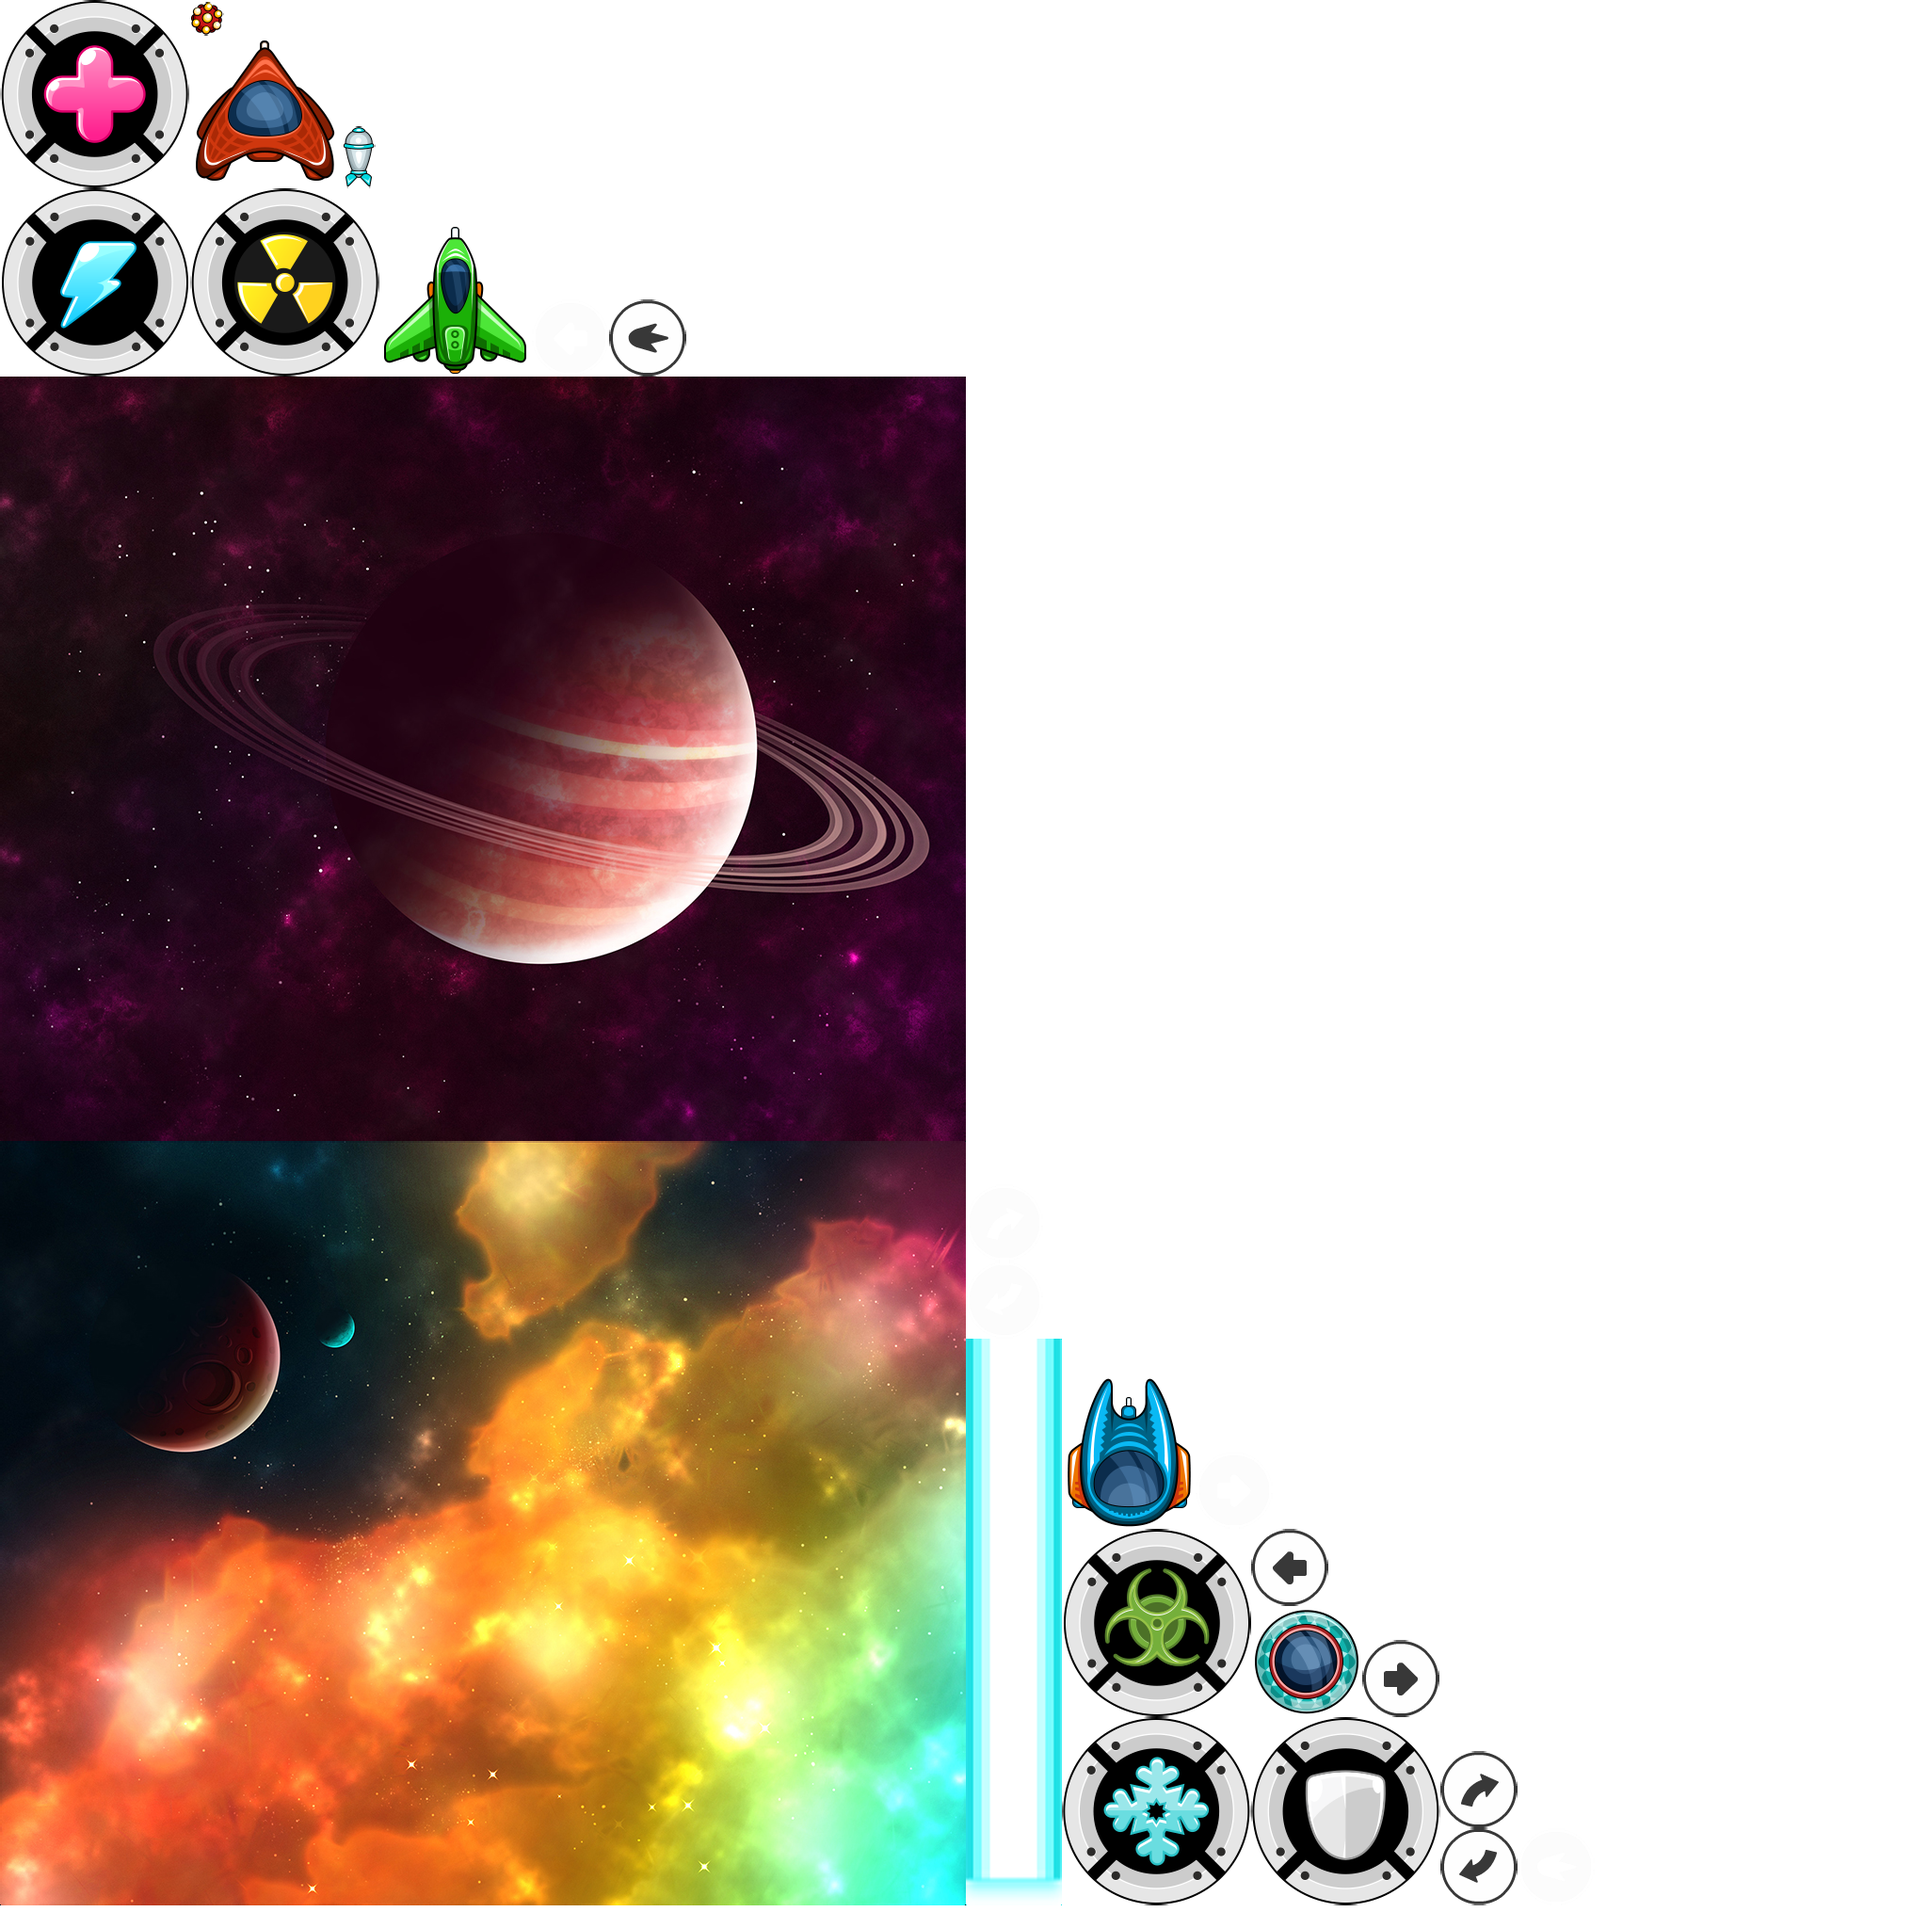
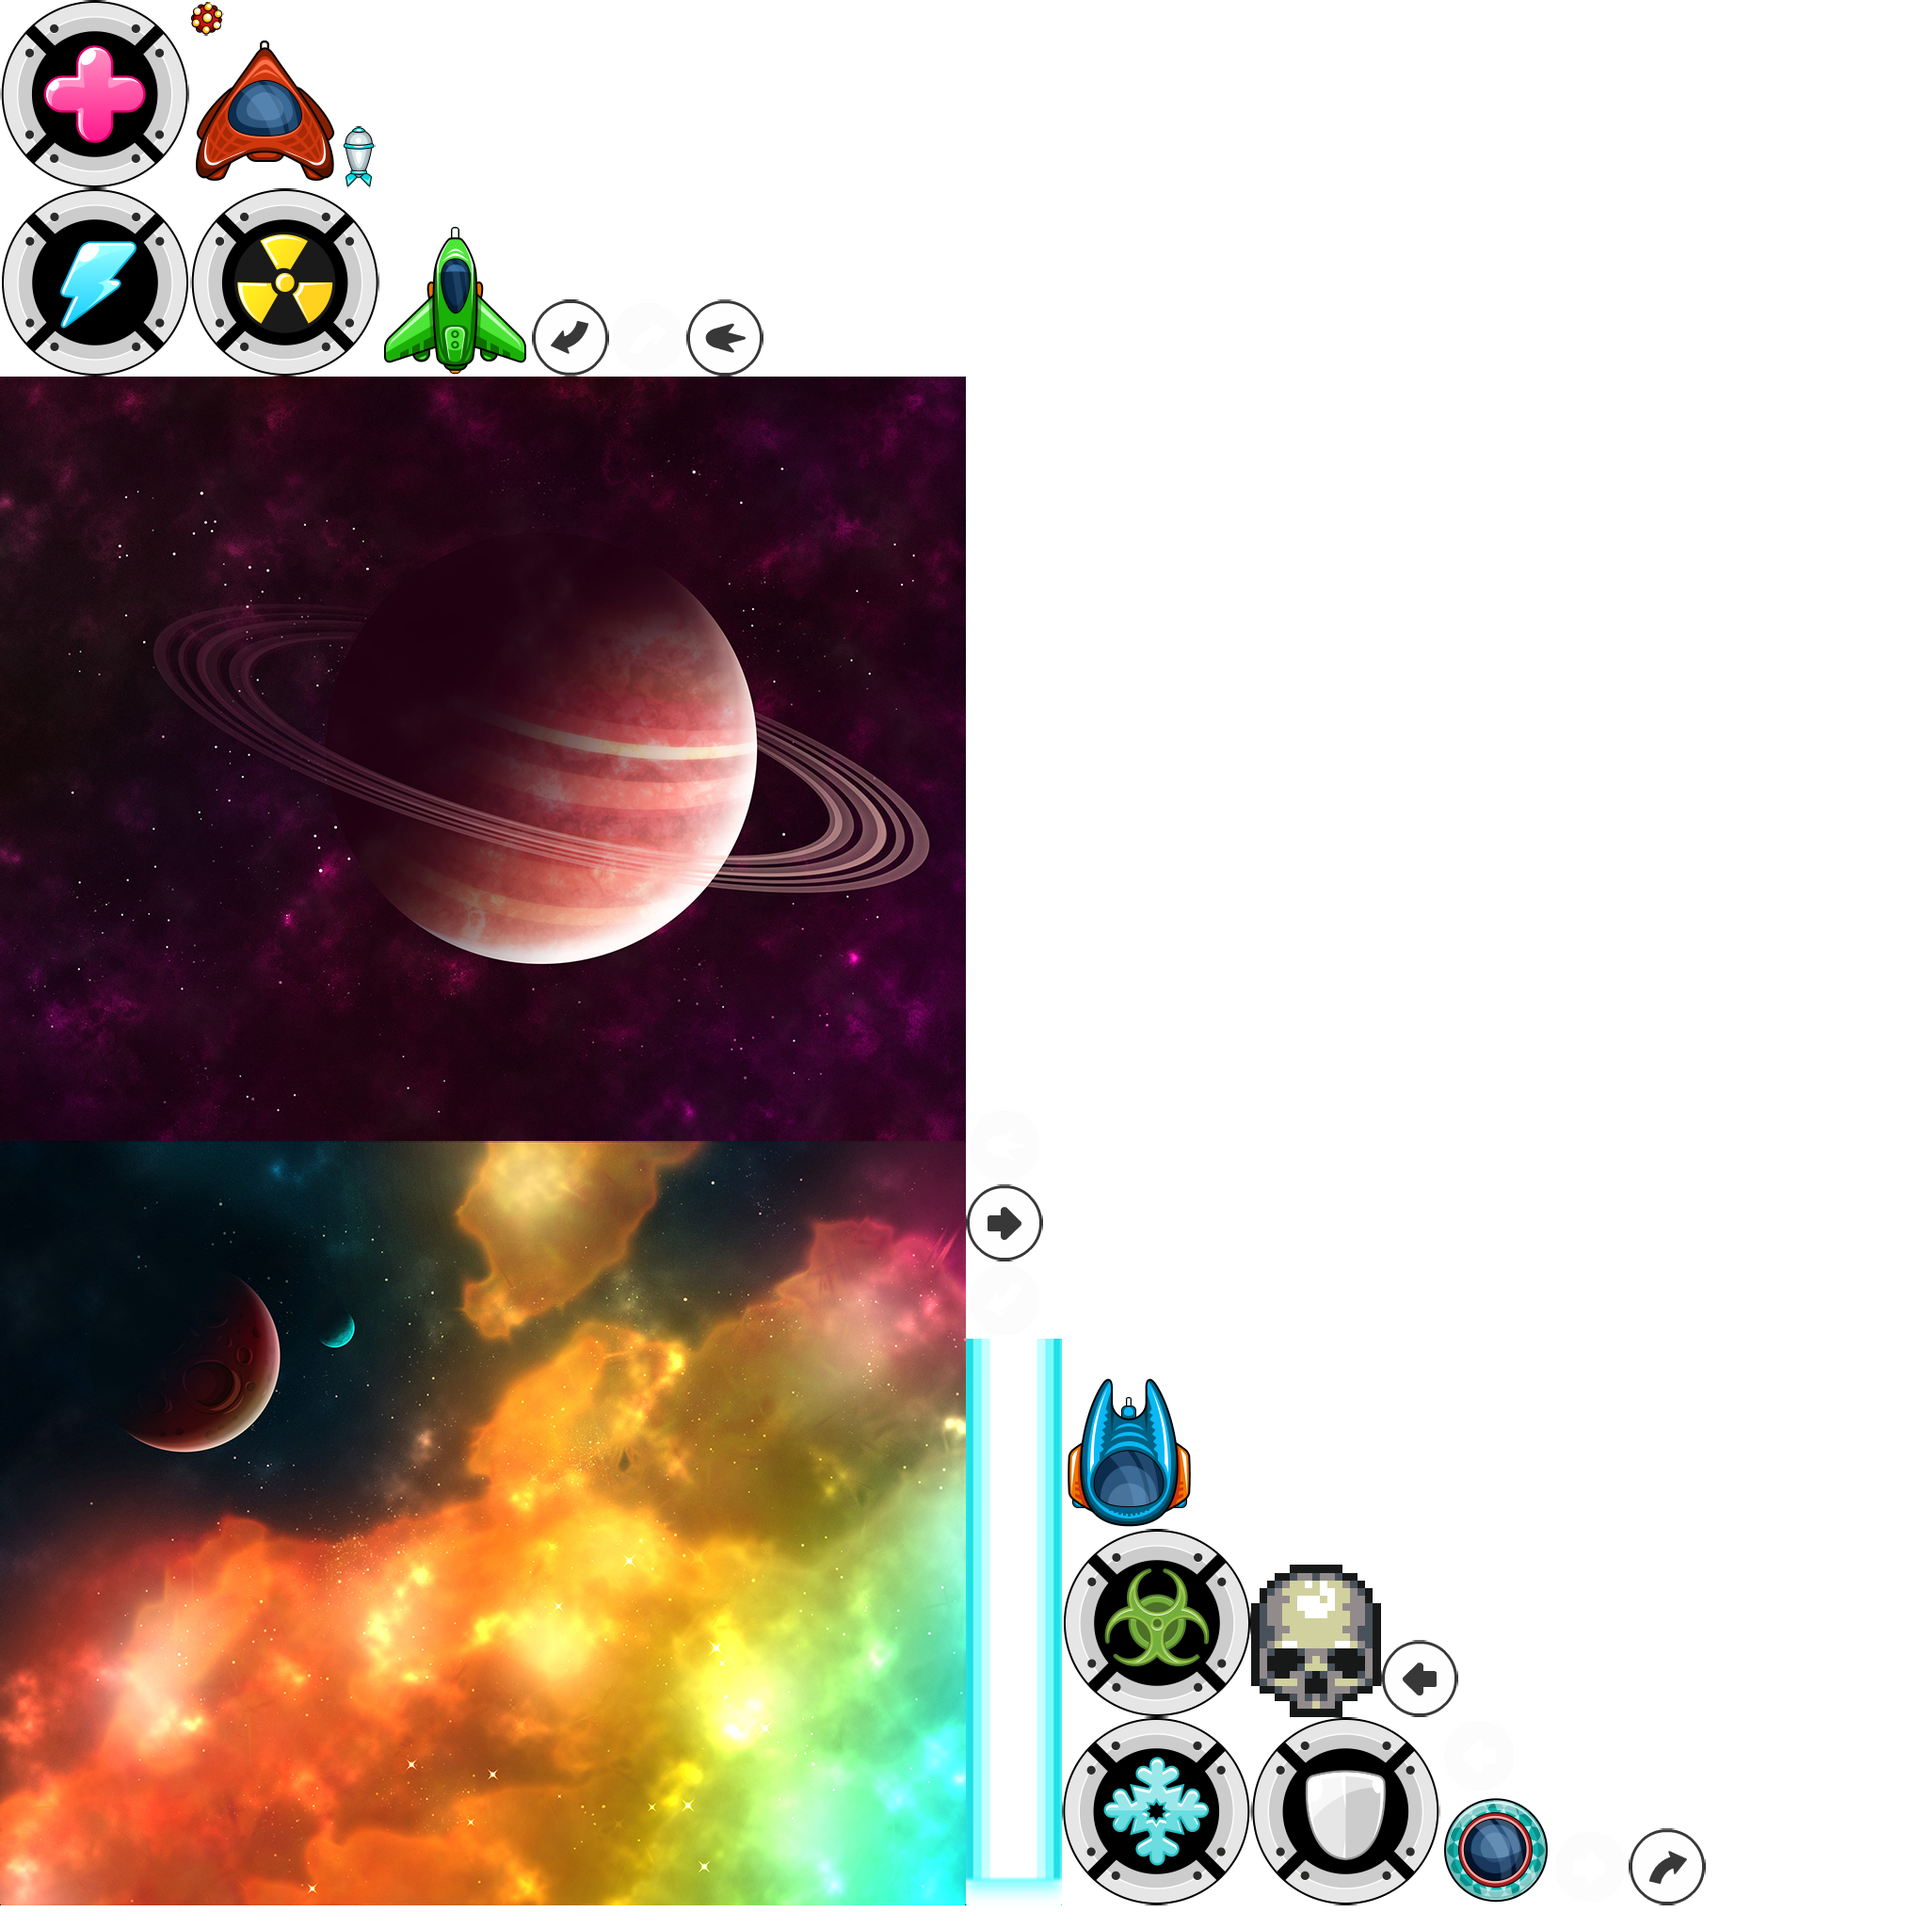
Added dead shader effect, added image when the ship is destroyed.

diff --git a/core/src/com/jahepi/tank/Render.java b/core/src/com/jahepi/tank/Render.java
@@ -5,6 +5,7 @@ import com.badlogic.gdx.graphics.Color;
 import com.badlogic.gdx.graphics.GL20;
 import com.badlogic.gdx.graphics.OrthographicCamera;
 import com.badlogic.gdx.graphics.g2d.SpriteBatch;
+import com.badlogic.gdx.graphics.glutils.ShaderProgram;
 import com.badlogic.gdx.graphics.glutils.ShapeRenderer;
 import com.badlogic.gdx.scenes.scene2d.InputEvent;
 import com.badlogic.gdx.scenes.scene2d.Stage;
@@ -79,10 +80,10 @@ public class Render implements Disposable, ControllerListener {
 		LabelStyle labelStyleSmall = new LabelStyle();
 		labelStyleSmall.font = Assets.getInstance().getUIFontSmall();
 		
-		waitingLabel = new Label(Language.getInstance().get("waiting_label"), labelStyle);
+		
+		waitingLabel = new Label(controller.isServer() ? Language.getInstance().get("waiting_label") : Language.getInstance().get("waiting_opponent_label"), labelStyle);
 		waitingLabel.setColor(Color.RED);
 		waitingLabel.setPosition((Config.UI_WIDTH / 2) - (waitingLabel.getWidth() / 2), (Config.UI_HEIGHT / 2) + waitingLabel.getHeight());
-		waitingLabel.setVisible(tankField.isServer());
 		stage.addActor(waitingLabel);
 		
 		disconnectLabel = new Label(Language.getInstance().get("disconnect_opponent_label"), labelStyle);
@@ -312,6 +313,15 @@ public class Render implements Disposable, ControllerListener {
 		batch.setColor(1, 1, 1, 1);
 		batch.setProjectionMatrix(camera.combined);
 		batch.begin();
+		
+		if (controller.isTankDead()) {
+			ShaderProgram shader = Assets.getInstance().getMonochromeShader();
+			batch.setShader(shader);
+			shader.setUniformf("u_amount", 1.0f);
+		} else {
+			batch.setShader(null);
+		}
+		
 		batch.draw(Assets.getInstance().getBackground(), 0, 0, Config.WIDTH, Config.HEIGHT);
 		controller.getTank().render(batch);
 		ArrayIterator<OpponentTank> opponents = new ArrayIterator<OpponentTank>(controller.getOpponentTanks());
@@ -336,6 +346,9 @@ public class Render implements Disposable, ControllerListener {
 		opponentsLabel.setText(opponentsInfo);
 		lifeLabel.setText(String.format(Language.getInstance().get("life_label"), controller.getTankLife()));
 		winLabel.setText(String.format(Language.getInstance().get("wins_label"), controller.getTankWins()));
+		if (controller.isStarted()) {
+			waitingLabel.setVisible(false);
+		}
 		
 		stage.draw();
 		

diff --git a/core/src/com/jahepi/tank/Assets.java b/core/src/com/jahepi/tank/Assets.java
@@ -11,8 +11,10 @@ import com.badlogic.gdx.graphics.g2d.TextureAtlas;
 import com.badlogic.gdx.graphics.g2d.TextureRegion;
 import com.badlogic.gdx.graphics.g2d.freetype.FreeTypeFontGenerator;
 import com.badlogic.gdx.graphics.g2d.freetype.FreeTypeFontGenerator.FreeTypeFontParameter;
+import com.badlogic.gdx.graphics.glutils.ShaderProgram;
+import com.badlogic.gdx.utils.Disposable;
 
-public class Assets {
+public class Assets implements Disposable {
 
 	private static Assets self;
 	
@@ -27,6 +29,7 @@ public class Assets {
 	private Music music, action;
 	private FreeTypeFontGenerator fontGenerator;
 	private BitmapFont UIFont, UIFontSmall, UIFontTitle;
+	private ShaderProgram monochromeShader;
 	
 	private Assets() {
 		manager = new AssetManager();
@@ -75,6 +78,9 @@ public class Assets {
 	    parameters3.borderWidth = 2;
 	    parameters3.borderColor = Color.GRAY;
 	    UIFontTitle = fontGenerator.generateFont(parameters3);
+	    
+	    monochromeShader = new ShaderProgram(Gdx.files.internal("shader/monochrome.vs"), Gdx.files.internal("shader/monochrome.fs"));
+	    monochromeShader.setUniformf("u_amount", 1.0f);
 	}
 	
 	public static Assets getInstance() {
@@ -106,6 +112,10 @@ public class Assets {
 	
 	public TextureRegion getShip4() {
 		return atlas.findRegion("ship4");
+	}
+	
+	public TextureRegion getSKull() {
+		return atlas.findRegion("skull");
 	}
 
 	public TextureRegion getRocket1() {
@@ -222,5 +232,25 @@ public class Assets {
 	
 	public TextureRegion getLaser() {
 		return atlas.findRegion("laser");
+	}
+
+	public ShaderProgram getMonochromeShader() {
+		return monochromeShader;
+	}
+
+	@Override
+	public void dispose() {
+		monochromeShader.dispose();
+		atlas.dispose();
+		music.dispose();
+		action.dispose();
+		audio1.dispose();
+		audio2.dispose();
+		audioItem.dispose();
+		destroySound.dispose();
+		fontGenerator.dispose();
+		UIFont.dispose();
+		UIFontSmall.dispose();
+		UIFontTitle.dispose();
 	}
 }

diff --git a/core/src/com/jahepi/tank/entities/Tank.java b/core/src/com/jahepi/tank/entities/Tank.java
@@ -143,7 +143,11 @@ public class Tank extends GameEntity {
 			}
 		}
 		effect.draw(batch);
-		batch.draw(texture, position.x, position.y, size.x / 2, size.y / 2, size.x, size.y, 1.0f, 1.0f, rotation, true);
+		if (isDead()) {
+			batch.draw(Assets.getInstance().getSKull(), position.x, position.y, size.x / 2, size.y / 2, size.x, size.y, 1.0f, 1.0f, 90.0f, true);
+		} else {
+			batch.draw(texture, position.x, position.y, size.x / 2, size.y / 2, size.x, size.y, 1.0f, 1.0f, rotation, true);
+		}
 	}
 
 	@Override

diff --git a/core/src/com/jahepi/tank/Controller.java b/core/src/com/jahepi/tank/Controller.java
@@ -340,12 +340,23 @@ public class Controller {
 		return tank;
 	}
 	
+	public boolean isTankDead() {
+		if (tank != null) {
+			return tank.isDead();
+		}
+		return false;
+	}
+	
 	public boolean isServer() {
 		return isServer;
 	}
 
 	public void setStarted(boolean started) {
 		this.started = started;
+	}
+
+	public boolean isStarted() {
+		return started;
 	}
 
 	public Array<OpponentTank> getOpponentTanks() {

diff --git a/core/src/com/jahepi/tank/multiplayer/ServerFinder.java b/core/src/com/jahepi/tank/multiplayer/ServerFinder.java
@@ -48,7 +48,7 @@ public class ServerFinder {
 								listener.onServerStatus(tempAddress.toString());
 								try {
 									Socket socket = new Socket();
-									socket.connect(socketAddress, 100);
+									socket.connect(socketAddress, 1);
 									active = false;
 									listener.onServerFound(socket);
 									return;

diff --git a/core/src/com/jahepi/tank/screens/Main.java b/core/src/com/jahepi/tank/screens/Main.java
@@ -211,6 +211,7 @@ public class Main implements Screen {
 		
 		batch.setProjectionMatrix(camera.combined);
 		batch.begin();
+		batch.setShader(null);
 		batch.draw(Assets.getInstance().getMainBackground(), 0, 0, Config.WIDTH, Config.HEIGHT);
 		batch.end();
 		stage.draw();
